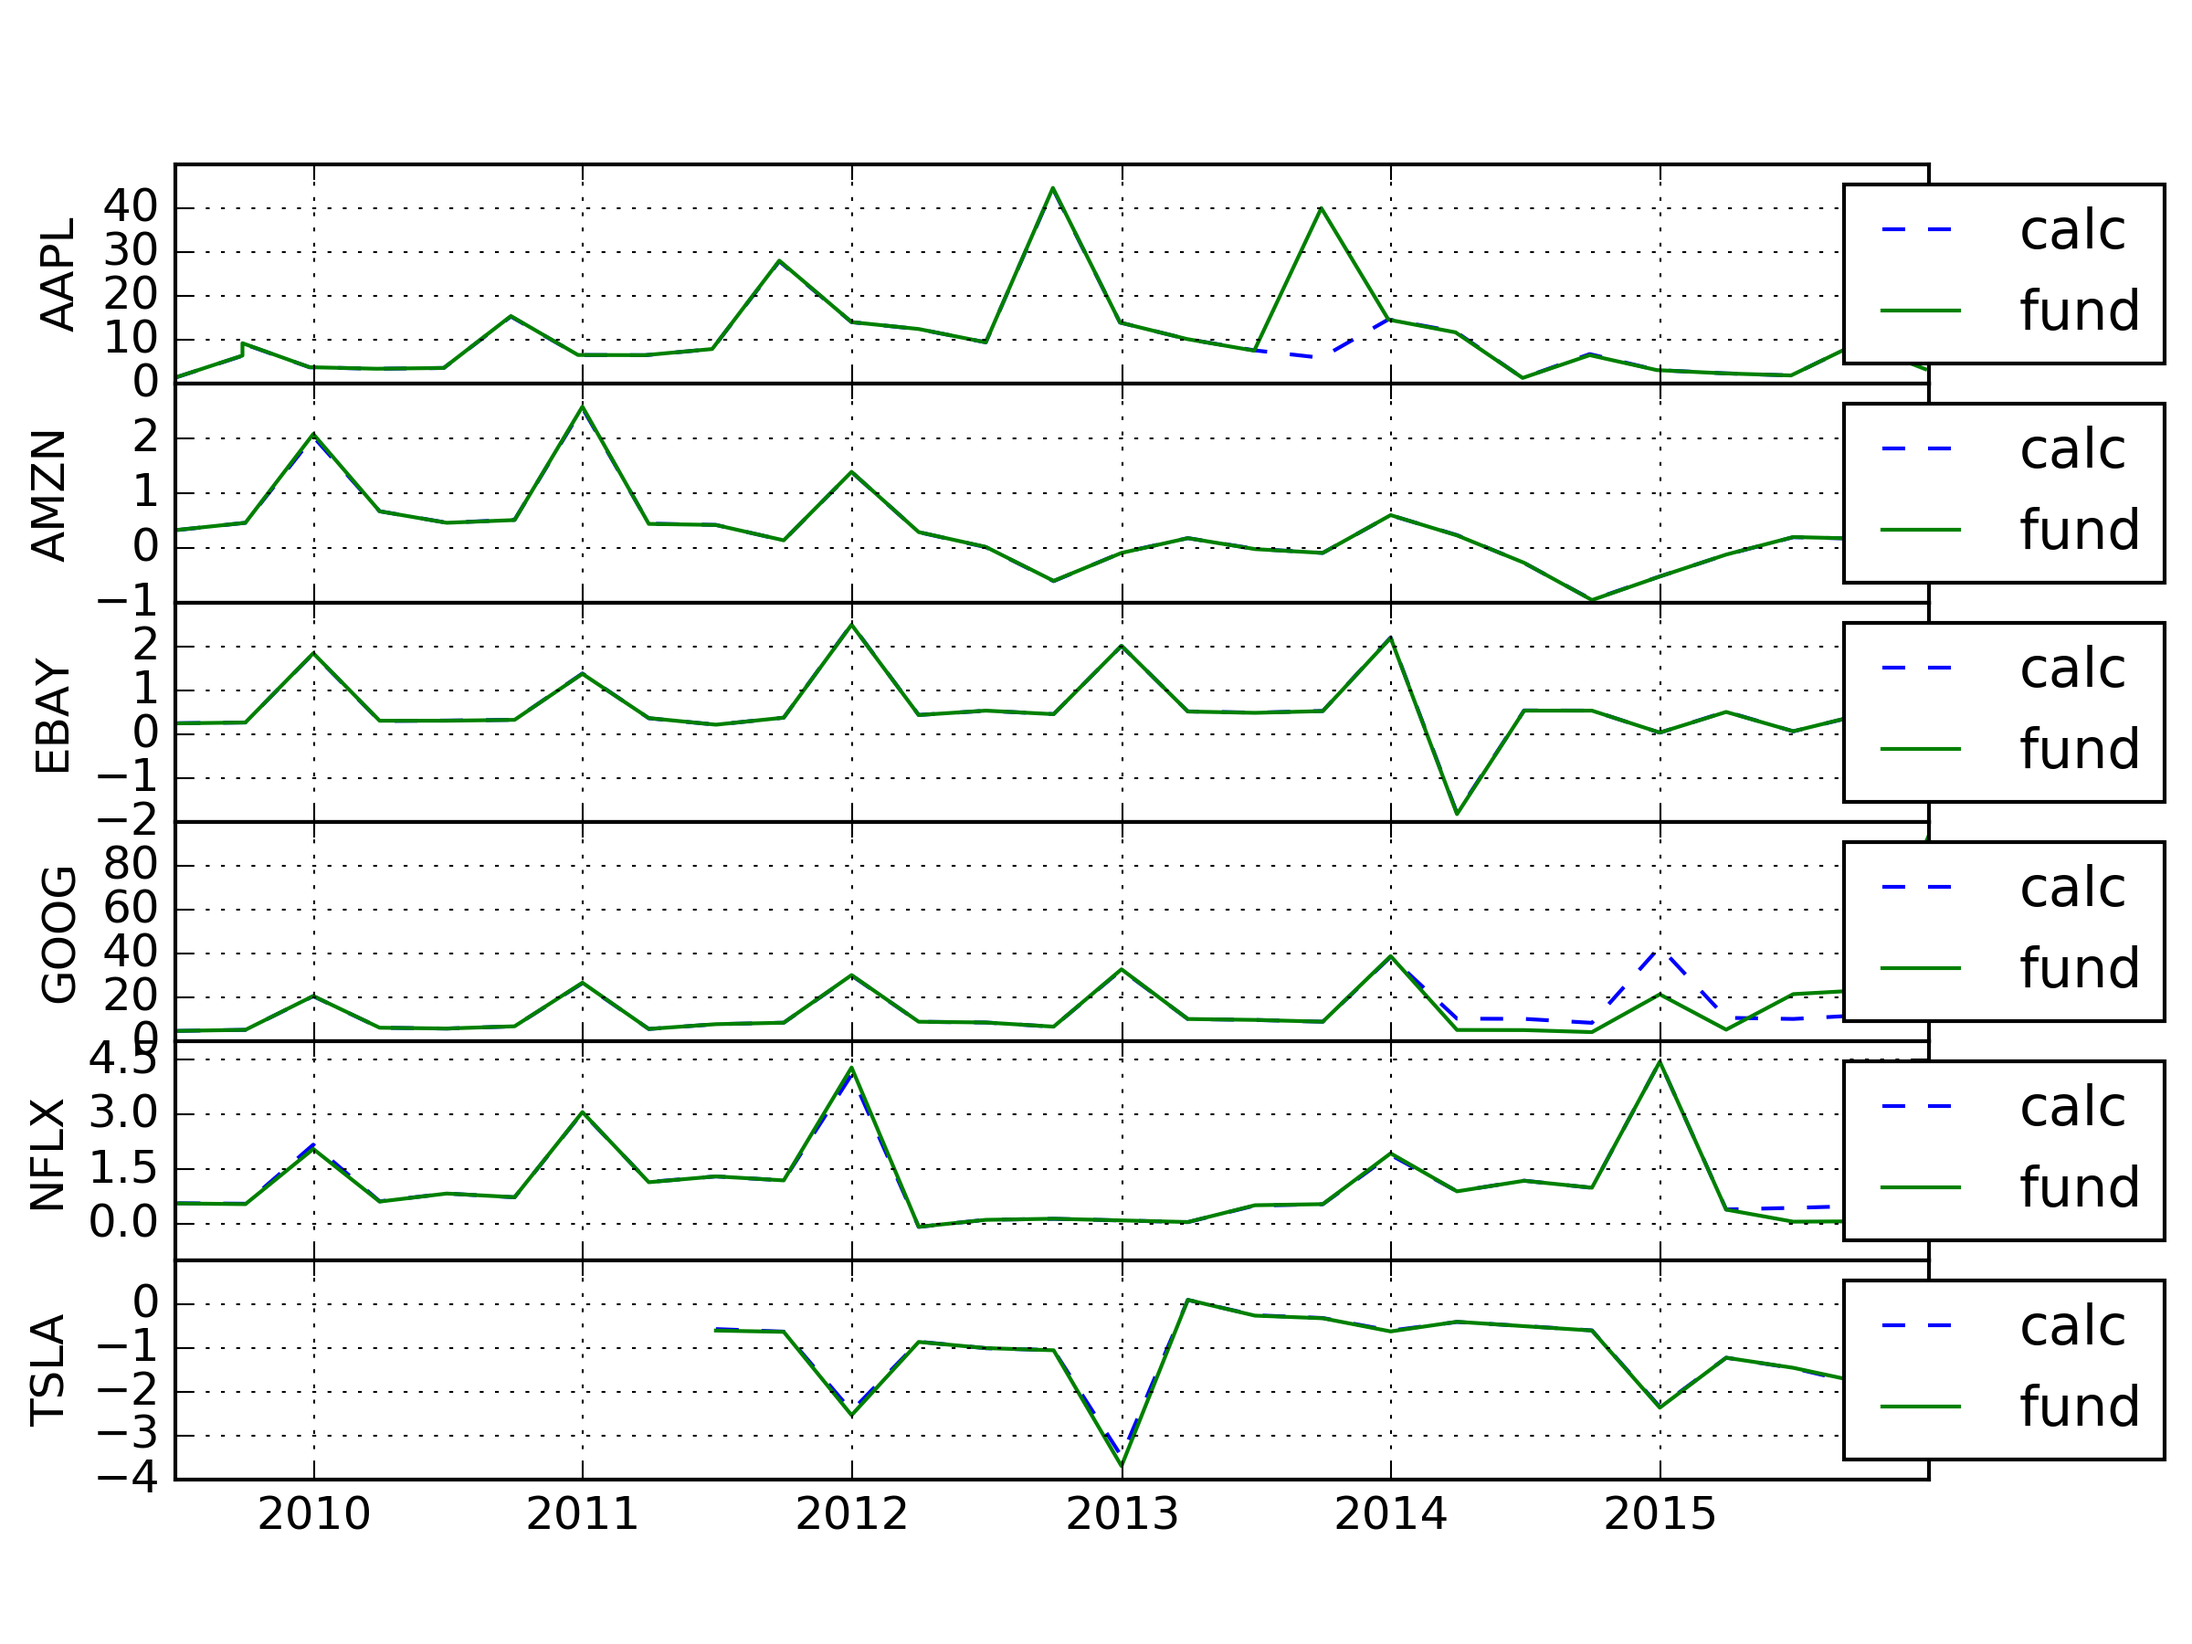
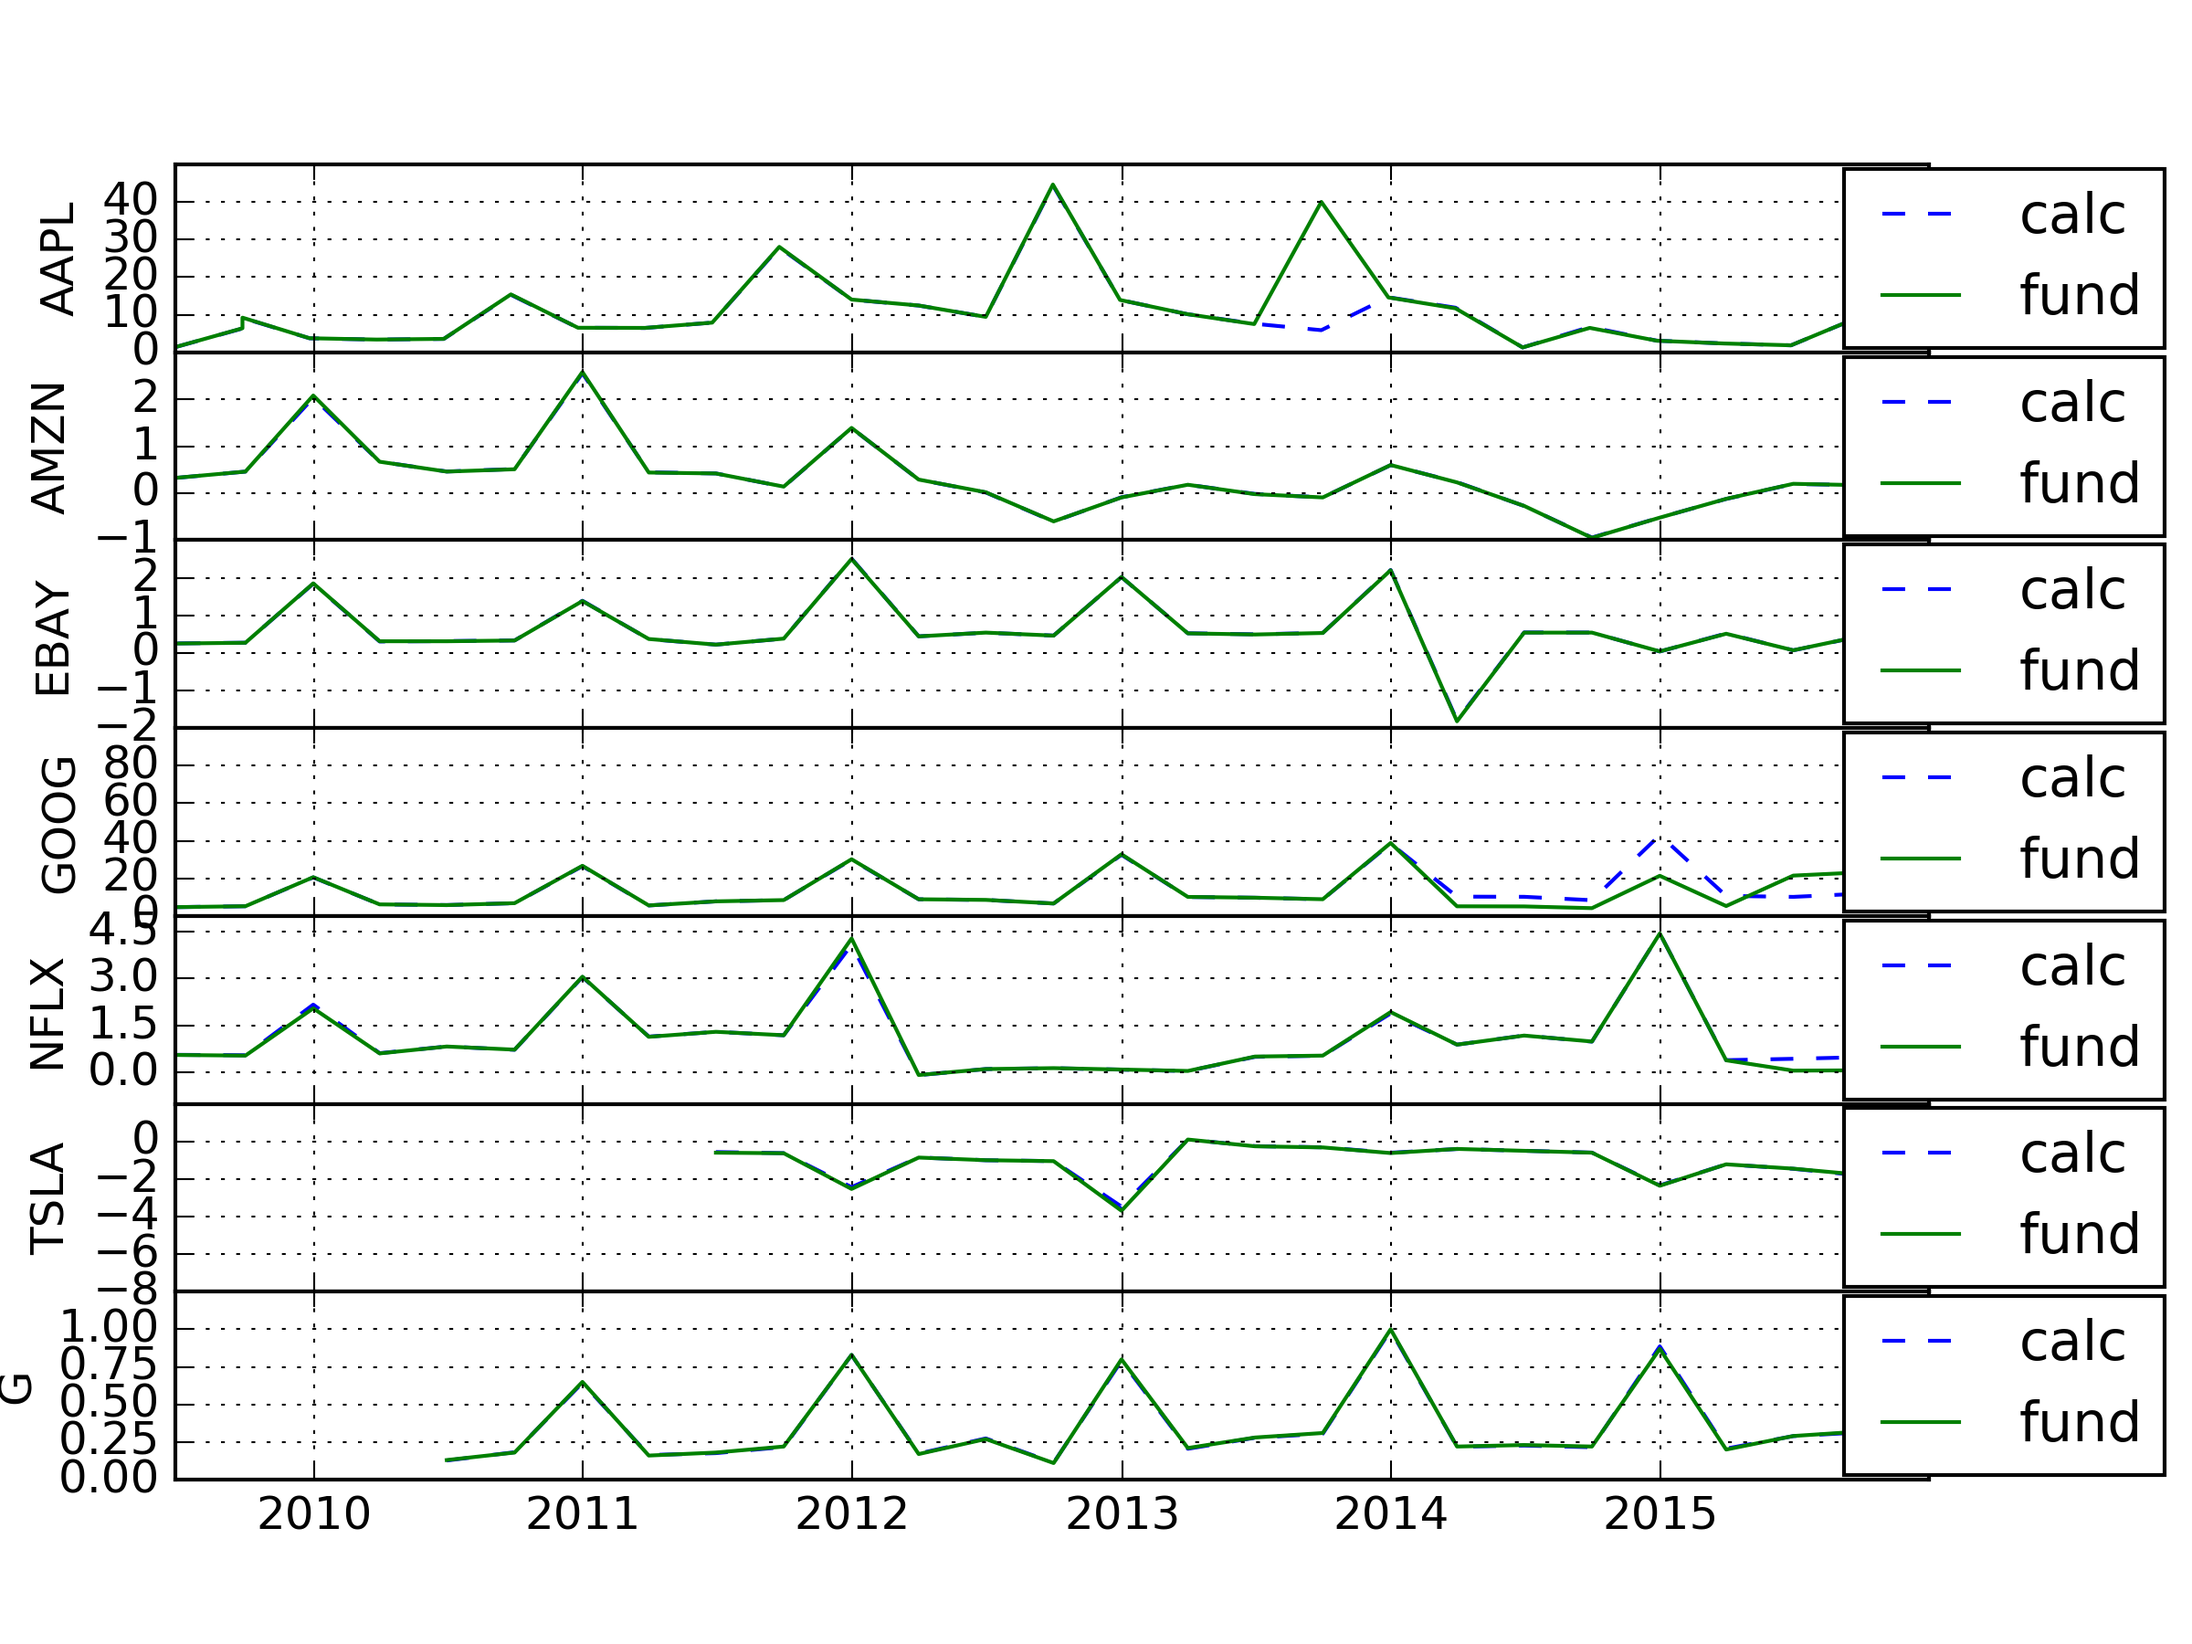
WIP Grapsh with diffs in EPS between my own calculated ones and the ones coming from the fundamentals CSV files

diff --git a/modules/config_details.py b/modules/config_details.py
@@ -38,3 +38,9 @@ eps_filename_prefix = 'eps_'
 pe_median_filename_prefix = 'pe_median_'
 peg_filename_prefix = 'peg_'
 
+# GRAPHS
+
+graphs_dir = './graphs/'
+def get_tickers_plot_filename(ticker):
+  return ticker.upper() + '.png'
+
